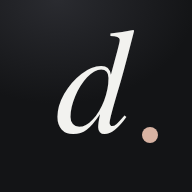
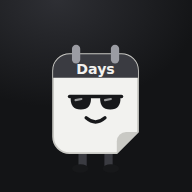
Days: letras como las otras apps y personaje animado
Claude-Session: https://claude.ai/code/session_01778MfouyxbgDrk4pFyrYCz

Changed region(s): [[0.25, 0.1562, 0.8438, 0.875]]

diff --git a/index.html b/index.html
@@ -12,7 +12,7 @@
 <link rel="icon" href="icons/icon-192.png">
 <link rel="apple-touch-icon" href="icons/apple-touch-icon.png">
 <link rel="preconnect" href="https://fonts.googleapis.com"><link rel="preconnect" href="https://fonts.gstatic.com" crossorigin>
-<link rel="stylesheet" href="https://fonts.googleapis.com/css2?family=Instrument+Serif:ital@0;1&family=Manrope:wght@400;500;600;700&display=swap">
+<link rel="stylesheet" href="https://fonts.googleapis.com/css2?family=Outfit:wght@400;500;600;700;800&display=swap">
 <title>Days</title>
 <style>
 :root,[data-theme="dark"]{--bg:#131416;--s1:#1b1c1f;--s2:#232428;--s3:#2d2e33;--line:#2f3036;--text:#ededee;--muted:#9b9ca3;--faint:#66676e;--chalk:#f2f2ef;--onchalk:#131416;
@@ -20,10 +20,10 @@
 [data-theme="light"]{--bg:#efeff1;--s1:#ffffff;--s2:#f6f6f7;--s3:#e9e9ec;--line:#dddde2;--text:#17181a;--muted:#686970;--faint:#a0a1a8;--chalk:#17181a;--onchalk:#ffffff;
   --birthday:#a8705b;--appointment:#4d6f8c;--event:#7f7652;--reminder:#6e6e78;--danger:#b54848;--ok:#4f7a4b;color-scheme:light}
 *{box-sizing:border-box;-webkit-tap-highlight-color:transparent}
-html,body{margin:0;background:var(--bg);color:var(--text);font-family:Manrope,system-ui,-apple-system,sans-serif;font-size:15px;line-height:1.45}
+html,body{margin:0;background:var(--bg);color:var(--text);font-family:Outfit,system-ui,-apple-system,sans-serif;font-size:15px;line-height:1.45}
 body{min-height:100vh;transition:background .3s}
 button,input,select,textarea{font:inherit;color:inherit}
-.serif{font-family:"Instrument Serif",Georgia,serif;font-weight:400;letter-spacing:-.01em}
+.serif{font-family:Outfit,system-ui,sans-serif;font-weight:800;letter-spacing:-.03em}
 .ic{display:block;flex:none}
 .muted{color:var(--muted)}.small{font-size:12.5px}
 :focus-visible{outline:2px solid var(--chalk);outline-offset:2px;border-radius:8px}
@@ -32,8 +32,8 @@ button,input,select,textarea{font:inherit;color:inherit}
 .side{display:none}
 main{flex:1;min-width:0;max-width:560px;margin:0 auto;padding:calc(env(safe-area-inset-top) + 14px) 18px calc(110px + env(safe-area-inset-bottom))}
 .top{display:flex;align-items:flex-end;justify-content:space-between;gap:12px;margin:6px 2px 18px}
-.top h1{margin:0;font-size:46px;line-height:.95}
-.top h1 small{display:block;font-family:Manrope,sans-serif;font-size:13px;color:var(--muted);letter-spacing:0;margin-top:6px}
+.top h1{margin:0;font-size:34px;line-height:1}
+.top h1 small{display:block;font-family:Outfit,sans-serif;font-weight:500;font-size:13px;color:var(--muted);letter-spacing:0;margin-top:6px}
 .iconbtn{width:42px;height:42px;border-radius:50%;border:1px solid var(--line);background:transparent;display:grid;place-items:center;cursor:pointer;color:var(--muted);flex:none}
 .iconbtn:active{transform:scale(.92)}
 .row-btns{display:flex;gap:8px}
@@ -45,7 +45,7 @@ main{flex:1;min-width:0;max-width:560px;margin:0 auto;padding:calc(env(safe-area
 @media(min-width:900px){
   .nav{display:none}
   .side{display:flex;flex-direction:column;gap:4px;width:240px;flex:none;padding:30px 18px;border-right:1px solid var(--line);position:sticky;top:0;height:100vh}
-  .side .brand{font-size:40px;margin:0 10px 26px}
+  .side .brand{font-size:28px;margin:0 8px 26px;display:flex;align-items:center;gap:10px}
   .side button.nv{border:0;background:none;display:flex;align-items:center;gap:12px;padding:11px 12px;border-radius:12px;font-weight:600;color:var(--muted);cursor:pointer;text-align:left}
   .side button.nv.on{background:var(--s2);color:var(--text)}
   .side .btn{margin-top:16px}
@@ -61,7 +61,7 @@ main{flex:1;min-width:0;max-width:560px;margin:0 auto;padding:calc(env(safe-area
 .grid{display:grid;grid-template-columns:repeat(7,1fr);gap:2px}
 .grid .wd{text-align:center;font-size:11.5px;color:var(--faint);font-weight:600;padding:4px 0 8px}
 .day{position:relative;aspect-ratio:1/1.08;border:0;background:transparent;border-radius:14px;cursor:pointer;display:flex;flex-direction:column;align-items:center;justify-content:flex-start;padding-top:7px;color:var(--text)}
-.day .n{font-family:"Instrument Serif",Georgia,serif;font-size:23px;line-height:1;width:34px;height:34px;display:grid;place-items:center;border-radius:50%}
+.day .n{font-family:Outfit,system-ui,sans-serif;font-weight:600;font-size:17px;line-height:1;width:34px;height:34px;display:grid;place-items:center;border-radius:50%}
 .day.out{opacity:.28}
 .day.past .n{color:var(--muted)}
 .day.today .n{background:var(--chalk);color:var(--onchalk)}
@@ -70,12 +70,12 @@ main{flex:1;min-width:0;max-width:560px;margin:0 auto;padding:calc(env(safe-area
 .day .dots i{width:5px;height:5px;border-radius:50%}
 /* agenda */
 .sec{display:flex;align-items:baseline;justify-content:space-between;margin:26px 2px 10px}
-.sec h2{margin:0;font-size:28px}
+.sec h2{margin:0;font-size:21px}
 .sec button{border:0;background:none;color:var(--muted);font-weight:600;cursor:pointer;font-size:13px}
 .dgroup{display:grid;grid-template-columns:58px 1fr;gap:12px;padding:14px 0;border-top:1px solid var(--line)}
 .dgroup:first-of-type{border-top:0}
 .dlabel{text-align:left}
-.dlabel b{display:block;font-family:"Instrument Serif",Georgia,serif;font-weight:400;font-size:38px;line-height:.9}
+.dlabel b{display:block;font-family:Outfit,system-ui,sans-serif;font-weight:700;font-size:30px;line-height:.95}
 .dlabel span{font-size:11.5px;color:var(--muted);text-transform:lowercase}
 .evs{display:flex;flex-direction:column;gap:8px;min-width:0}
 .ev{display:flex;gap:12px;align-items:stretch;background:var(--s1);border-radius:16px;padding:12px 14px;cursor:pointer;border:1px solid transparent;transition:border-color .2s}
@@ -87,14 +87,14 @@ main{flex:1;min-width:0;max-width:560px;margin:0 auto;padding:calc(env(safe-area
 .ev .r{font-size:12px;color:var(--muted);text-align:right;white-space:nowrap;align-self:center}
 .ev.done .t{text-decoration:line-through;color:var(--muted)}
 .empty{color:var(--muted);padding:22px 4px;line-height:1.55}
-.empty b{color:var(--text);display:block;font-family:"Instrument Serif",Georgia,serif;font-weight:400;font-size:26px;margin-bottom:4px}
+.empty b{color:var(--text);display:block;font-family:Outfit,system-ui,sans-serif;font-weight:700;font-size:20px;margin-bottom:4px}
 .typekey{display:flex;gap:14px;flex-wrap:wrap;font-size:12px;color:var(--muted);margin:10px 2px 0}
 .typekey i{display:inline-block;width:7px;height:7px;border-radius:50%;margin-right:6px;vertical-align:1px}
 /* birthdays list */
 .bd{display:flex;align-items:center;gap:14px;padding:14px 4px;border-top:1px solid var(--line);cursor:pointer}
 .bd:first-child{border-top:0}
 .bd .num{width:58px;flex:none}
-.bd .num b{display:block;font-family:"Instrument Serif",Georgia,serif;font-weight:400;font-size:34px;line-height:.9}
+.bd .num b{display:block;font-family:Outfit,system-ui,sans-serif;font-weight:700;font-size:28px;line-height:.95}
 .bd .num span{font-size:11.5px;color:var(--muted)}
 .bd .mid{flex:1;min-width:0}.bd .t{font-weight:600}.bd .s{font-size:12.5px;color:var(--muted)}
 .bd .left{font-size:12.5px;color:var(--muted);text-align:right}
@@ -106,7 +106,7 @@ main{flex:1;min-width:0;max-width:560px;margin:0 auto;padding:calc(env(safe-area
 @keyframes up{from{transform:translateY(30px);opacity:0}}
 .grab{width:38px;height:4px;border-radius:4px;background:var(--line);margin:4px auto 14px}
 .shead{display:flex;align-items:flex-start;justify-content:space-between;gap:10px;margin-bottom:16px}
-.shead h3{margin:0;font-size:32px;line-height:1}
+.shead h3{margin:0;font-size:24px;line-height:1.1}
 .shead p{margin:6px 0 0;color:var(--muted);font-size:13px}
 .x{width:36px;height:36px;border-radius:50%;border:0;background:var(--s2);color:var(--muted);display:grid;place-items:center;cursor:pointer;flex:none}
 .field{margin-bottom:14px}
@@ -148,7 +148,7 @@ main{flex:1;min-width:0;max-width:560px;margin:0 auto;padding:calc(env(safe-area
 .cap-state{text-align:center;color:var(--muted);font-size:13px;min-height:20px}
 .wave{display:flex;gap:4px;justify-content:center;align-items:center;height:26px;margin:6px 0}
 .wave i{width:3px;border-radius:3px;background:var(--text);height:6px;transition:height .12s}
-.cap-text{font-family:"Instrument Serif",Georgia,serif;font-size:30px;line-height:1.15;text-align:center;min-height:70px;margin:10px 4px 6px;word-break:break-word}
+.cap-text{font-family:Outfit,system-ui,sans-serif;font-weight:600;font-size:24px;line-height:1.15;text-align:center;min-height:70px;margin:10px 4px 6px;word-break:break-word}
 .cap-text .hint{color:var(--faint)}
 .cap-text textarea{width:100%;border:0;background:transparent;font:inherit;text-align:center;resize:none;outline:none;color:var(--text)}
 .interp{display:flex;flex-wrap:wrap;gap:8px;justify-content:center;margin:6px 0 18px;min-height:34px}
@@ -159,17 +159,51 @@ main{flex:1;min-width:0;max-width:560px;margin:0 auto;padding:calc(env(safe-area
 .auth{position:fixed;inset:0;z-index:90;display:none;overflow:auto;background:var(--bg)}
 .auth.open{display:block}
 .auth-box{max-width:400px;margin:auto;min-height:100vh;padding:40px 22px;display:flex;flex-direction:column;justify-content:center}
-.auth h1{font-size:76px;margin:0;line-height:.9}
+.auth h1{font-size:52px;margin:6px 0 0;line-height:1;text-align:center}
+.auth .sub{text-align:center}
+.auth-logo{display:flex;justify-content:center}
 .auth .sub{color:var(--muted);margin:10px 0 28px;line-height:1.5}
 .err{display:none;background:color-mix(in srgb,var(--danger) 14%,transparent);color:var(--danger);border-radius:12px;padding:10px 12px;font-size:13.5px;margin-bottom:12px}
 .switch{text-align:center;margin-top:16px;color:var(--muted);font-size:14px}
 .splash{position:fixed;inset:0;z-index:100;background:var(--bg);display:grid;place-items:center;transition:opacity .4s}
 .splash.hide{opacity:0;pointer-events:none}
-.splash .big{font-size:120px;line-height:1;text-align:center}
-.splash .big small{display:block;font-family:Manrope,sans-serif;font-size:14px;color:var(--muted);letter-spacing:.02em}
-.toast{position:fixed;left:50%;bottom:calc(98px + env(safe-area-inset-bottom));transform:translate(-50%,16px);background:var(--chalk);color:var(--onchalk);border-radius:99px;padding:11px 18px;font-weight:600;font-size:14px;opacity:0;pointer-events:none;transition:opacity .25s,transform .25s;z-index:95;max-width:calc(100% - 32px);text-align:center}
+.splash .big{text-align:center}
+.splash .big small{display:block;font-family:Outfit,sans-serif;font-weight:500;font-size:14px;color:var(--muted);letter-spacing:.02em}
+.toast{position:fixed;left:50%;bottom:calc(98px + env(safe-area-inset-bottom));transform:translate(-50%,16px);background:var(--chalk);color:var(--onchalk);border-radius:99px;padding:6px 18px 6px 8px;font-weight:600;font-size:14px;opacity:0;pointer-events:none;transition:opacity .25s,transform .25s;z-index:95;max-width:calc(100% - 32px);text-align:center}
 .toast.show{opacity:1;transform:translate(-50%,0)}
 .fade{animation:fade .35s ease both}@keyframes fade{from{opacity:0}}
+
+/* ===== personaje: hojita de calendario con lentes ===== */
+.mascot{overflow:visible;display:block;cursor:pointer}
+.mascot .mb{transform-box:fill-box;transform-origin:50% 100%;animation:mfloat 3.2s ease-in-out infinite}
+.mascot .ms{transform-box:fill-box;transform-origin:50% 50%;animation:mshadow 3.2s ease-in-out infinite}
+.mascot .ear{transform-box:fill-box;transform-origin:100% 100%;animation:mear 5s ease-in-out infinite}
+.mascot .glass{transform-box:fill-box;transform-origin:50% 50%;animation:mglass 6s ease-in-out infinite}
+.mascot .arm{transform-box:fill-box;transform-origin:15% 15%}
+.mascot.m-wave .arm.r{animation:mwave .9s ease-in-out infinite}
+.mascot.m-happy .mb{animation:mhop .8s cubic-bezier(.3,1.6,.5,1) infinite}
+.mascot.m-celebrate .mb{animation:mspin 1.2s cubic-bezier(.3,1.3,.5,1) infinite}
+.mascot.m-celebrate .arm{animation:mwave .5s ease-in-out infinite}
+.mascot.m-listen .mb{animation:mlisten .7s ease-in-out infinite}
+.mascot.m-think .mb{animation:mtilt 2.4s ease-in-out infinite}
+.mascot.m-sleep .mb{animation:mbreath 4s ease-in-out infinite}
+.mascot .z{animation:zz 2.4s ease-in-out infinite;opacity:0}.mascot .z2{animation-delay:.8s}.mascot .z3{animation-delay:1.6s}
+.mascot:active .mb{animation:msquish .35s ease}
+@keyframes mfloat{0%,100%{transform:translateY(0) rotate(-2deg)}50%{transform:translateY(-6px) rotate(2deg)}}
+@keyframes mshadow{0%,100%{transform:scaleX(1);opacity:.3}50%{transform:scaleX(.8);opacity:.18}}
+@keyframes mear{0%,80%,100%{transform:rotate(0)}88%{transform:rotate(-18deg)}}
+@keyframes mglass{0%,90%,100%{transform:translateY(0)}94%{transform:translateY(-3px)}}
+@keyframes mwave{0%,100%{transform:rotate(0)}50%{transform:rotate(-35deg)}}
+@keyframes mhop{0%,100%{transform:translateY(0)}40%{transform:translateY(-12px) scale(1.03,.97)}}
+@keyframes mspin{0%,100%{transform:translateY(0) rotate(0)}30%{transform:translateY(-14px) rotate(-8deg)}60%{transform:translateY(-14px) rotate(8deg)}}
+@keyframes mlisten{0%,100%{transform:scale(1)}50%{transform:scale(1.05,.96)}}
+@keyframes mtilt{0%,100%{transform:rotate(-6deg)}50%{transform:rotate(6deg)}}
+@keyframes mbreath{0%,100%{transform:scale(1)}50%{transform:scale(1.03,.97)}}
+@keyframes msquish{50%{transform:scale(1.12,.86)}}
+@keyframes zz{0%{opacity:0;transform:translate(0,0) scale(.6)}30%{opacity:1}100%{opacity:0;transform:translate(14px,-26px) scale(1.1)}}
+.hello{display:flex;align-items:center;gap:12px;margin:4px 0 14px}
+.hello h1{margin:0;font-size:21px;line-height:1.15}.hello p{margin:2px 0 0;color:var(--muted);font-size:13px}
+.hello .iconbtn{margin-left:auto}
 @media (prefers-reduced-motion:reduce){*{animation:none!important;transition:none!important}}
 </style>
 </head>
@@ -177,6 +211,7 @@ main{flex:1;min-width:0;max-width:560px;margin:0 auto;padding:calc(env(safe-area
 <div class="splash" id="splash"><div class="big serif" id="splashNum"></div></div>
 
 <div class="auth" id="auth"><div class="auth-box">
+  <div class="auth-logo" id="authLogo"></div>
   <h1 class="serif">Days</h1>
   <p class="sub" id="authSub">Cumpleaños, citas y todo lo que no quieres olvidar. Te aviso antes.</p>
   <div id="loginCard">
@@ -257,6 +292,41 @@ const IC={
 };
 const ic=(n,s=20,w=1.7)=>`<svg class="ic" width="${s}" height="${s}" viewBox="0 0 24 24" fill="none" stroke="currentColor" stroke-width="${w}" stroke-linecap="round" stroke-linejoin="round" aria-hidden="true">${IC[n]||''}</svg>`;
 
+
+/* ---------------- personaje ---------------- */
+let _mid=0;
+function isSleep(){const h=new Date().getHours();return h>=23||h<5}
+function mascotSVG(size=90,mood='idle'){
+  if(isSleep()&&!['celebrate','listen'].includes(mood))mood='sleep';
+  const light=document.documentElement.dataset.theme==='light';
+  const page=light?'#ffffff':'#f2f2ef',edge=light?'#d9d9de':'#c9c9c4',head='#3a3b41',ink='#17181a';
+  const n=new Date(),day=n.getDate(),mon=n.toLocaleDateString('es-MX',{month:'short'}).replace('.','');
+  const sleep=mood==='sleep',id='m'+(++_mid);
+  const eyes=sleep?`<path d="M44 70q5 4 10 0M66 70q5 4 10 0" stroke="${ink}" stroke-width="2.8" fill="none" stroke-linecap="round"/>`
+    :`<g class="glass"><path d="M38 66h44" stroke="${ink}" stroke-width="3" stroke-linecap="round"/><path d="M39 66h17q1 11-8.5 11T39 66z" fill="${ink}"/><path d="M64 66h17q1 11-8.5 11T64 66z" fill="${ink}"/><path d="M43 69l5-1M68 69l5-1" stroke="#fff" stroke-width="1.8" stroke-linecap="round" opacity=".55"/></g>`;
+  const mouth=['happy','celebrate','wave'].includes(mood)?`<path d="M52 84q8 9 16 0z" fill="${ink}"/><path d="M55.5 87q4.5 3 9 0" fill="#e59a9a"/>`
+    :mood==='listen'?`<ellipse cx="60" cy="87" rx="4" ry="4.6" fill="${ink}"/>`
+    :mood==='think'?`<path d="M54 88q6-3 12 1" stroke="${ink}" stroke-width="2.6" fill="none" stroke-linecap="round"/>`
+    :sleep?`<ellipse cx="60" cy="87" rx="3" ry="2.2" fill="${ink}"/>`
+    :`<path d="M52 84q8 7 16 0" stroke="${ink}" stroke-width="2.8" fill="none" stroke-linecap="round"/>`;
+  const zz=sleep?`<text class="z" x="96" y="22" font-size="12" font-weight="800" fill="var(--muted)">z</text><text class="z z2" x="103" y="12" font-size="15" font-weight="800" fill="var(--muted)">z</text><text class="z z3" x="110" y="2" font-size="18" font-weight="800" fill="var(--muted)">Z</text>`:'';
+  return `<svg class="mascot m-${mood}" width="${size}" height="${size}" viewBox="0 0 120 140" onclick="mascotPoke(this)" role="img" aria-label="Tu calendario">
+  <ellipse class="ms" cx="60" cy="134" rx="30" ry="4.5" fill="#000"/>
+  <g class="mb">
+    <path d="M49 112v14M71 112v14" stroke="${head}" stroke-width="7" stroke-linecap="round"/><ellipse cx="47" cy="127" rx="7" ry="3.6" fill="${ink}"/><ellipse cx="73" cy="127" rx="7" ry="3.6" fill="${ink}"/>
+    <g class="arm l"><path d="M24 74q-12 6-12 20" stroke="${head}" stroke-width="6" fill="none" stroke-linecap="round"/><circle cx="12" cy="95" r="5" fill="${page}" stroke="${edge}" stroke-width="1.5"/></g>
+    <g class="arm r"><path d="M96 74q12 -4 14-18" stroke="${head}" stroke-width="6" fill="none" stroke-linecap="round"/><circle cx="110" cy="55" r="5" fill="${page}" stroke="${edge}" stroke-width="1.5"/></g>
+    <path d="M24 44a14 14 0 0 1 14-14h44a14 14 0 0 1 14 14v52l-18 18H38a14 14 0 0 1-14-14z" fill="${page}" stroke="${edge}" stroke-width="1.5"/>
+    <path class="ear" d="M96 96l-18 18v-10a8 8 0 0 1 8-8z" fill="${edge}"/>
+    <path d="M24 44a14 14 0 0 1 14-14h44a14 14 0 0 1 14 14v6H24z" fill="${head}"/>
+    <rect x="40" y="22" width="7" height="16" rx="3.5" fill="#9b9ca3"/><rect x="73" y="22" width="7" height="16" rx="3.5" fill="#9b9ca3"/>
+    <text x="60" y="47" text-anchor="middle" font-family="Outfit,system-ui,sans-serif" font-size="12" font-weight="700" fill="#f2f2ef">${day} ${mon}</text>
+    ${eyes}${mouth}
+  </g>${zz}</svg>`;
+}
+function mascotPoke(el){sfx('coin');try{navigator.vibrate&&navigator.vibrate(12)}catch(e){}el.classList.add('m-happy');setTimeout(()=>el.classList.remove('m-happy'),1200)}
+function greetWord(){const h=new Date().getHours();return h>=5&&h<12?'Buenos días':h<19?'Buenas tardes':'Buenas noches'}
+
 /* ---------------- tema ---------------- */
 function themePref(){return ls('days_theme')||'dark'}
 function applyTheme(){const p=themePref();const t=p==='auto'?(matchMedia('(prefers-color-scheme: light)').matches?'light':'dark'):p;document.documentElement.dataset.theme=t;const m=document.querySelector('meta[name=theme-color]');if(m)m.content=t==='light'?'#efeff1':'#131416'}
@@ -296,7 +366,7 @@ async function loadData(){const {data,error}=await sb.from('dy_events').select('
 const VIEWS=[['cal','Calendario','cal'],['next','Próximos','list'],['bdays','Cumpleaños','cake'],['settings','Ajustes','gear']];
 function buildNav(){
   $('nav').innerHTML=VIEWS.slice(0,2).map(navBtn).join('')+`<button class="mic" data-nosfx onclick="openCapture()" aria-label="Agregar con la voz">${ic('mic',24,1.9)}</button>`+VIEWS.slice(2).map(navBtn).join('');
-  $('side').innerHTML=`<div class="brand serif">Days</div>`+VIEWS.map(v=>`<button class="nv ${view===v[0]?'on':''}" onclick="go('${v[0]}')">${ic(v[2],19)} ${v[1]}</button>`).join('')+`<button class="btn" onclick="openCapture()">${ic('mic',18)} Agregar</button>`;
+  $('side').innerHTML=`<div class="brand serif">${mascotSVG(40,'idle')} Days</div>`+VIEWS.map(v=>`<button class="nv ${view===v[0]?'on':''}" onclick="go('${v[0]}')">${ic(v[2],19)} ${v[1]}</button>`).join('')+`<button class="btn" onclick="openCapture()">${ic('mic',18)} Agregar</button>`;
 }
 const navBtn=v=>`<button class="${view===v[0]?'on':''}" onclick="go('${v[0]}')">${ic(v[2],21)}<span>${v[1]}</span></button>`;
 function go(v){if(v!==view)sfx('toggle');view=v;buildNav();render();scrollTo({top:0})}
@@ -314,9 +384,11 @@ function calView(){
     return `<button class="day ${k.slice(0,7)!==calMonth?'out':''} ${k<t?'past':''} ${k===t?'today':''} ${k===selDay?'sel':''}" onclick="pickDay('${k}')" aria-label="${fmtDate(k)}${list.length?', '+list.length+' cosas':''}"><span class="n">${+k.slice(8)}</span><span class="dots">${types.map(ty=>`<i style="background:${TYPES[ty].c}"></i>`).join('')}</span></button>`}).join('')}</div>`;
   const dayList=byDay[selDay]||expand(selDay,selDay);
   const right=`<div class="sec"><h2 class="serif">${selDay===t?'Hoy':cap(fmtDate(selDay,{weekday:'long',day:'numeric'}))}</h2><button onclick="openEditor(null,'${selDay}')">${'Agregar'}</button></div>
-    ${dayList.length?`<div class="evs">${dayList.map(o=>evRow(o,true)).join('')}</div>`:`<div class="empty">Nada para este día. Toca el micrófono y di algo como <i>“el jueves a las 4 pm ir al doctor”</i>.</div>`}
+    ${dayList.length?`<div class="evs">${dayList.map(o=>evRow(o,true)).join('')}</div>`:`<div class="empty" style="display:flex;gap:12px;align-items:center">${mascotSVG(56,'think')}<div>Nada para este día. Toca el micrófono y di algo como <i>“el jueves a las 4 pm ir al doctor”</i>.</div></div>`}
     <div class="sec"><h2 class="serif">Lo que viene</h2><button onclick="go('next')">Ver todo</button></div>${agendaGroups(expand(addDays(t,1),addDays(t,30)).slice(0,6))||'<div class="empty">Nada en los próximos 30 días.</div>'}`;
-  return `<div class="top"><h1 class="serif">${title}<small>${y}</small></h1><div class="row-btns">${calMonth!==t.slice(0,7)?`<button class="iconbtn" onclick="calMonth=null;selDay=null;render()" aria-label="Ir a hoy">${ic('today',19)}</button>`:''}<button class="iconbtn" onclick="shiftMonth(-1)" aria-label="Mes anterior">${ic('left',19)}</button><button class="iconbtn" onclick="shiftMonth(1)" aria-label="Mes siguiente">${ic('right',19)}</button></div></div>
+  const todayCount=expand(t,t).length;
+  return `<div class="hello">${mascotSVG(58,'wave')}<div><h1>${greetWord()}${userName()?', '+esc(userName()):''}</h1><p>${todayCount?`Hoy tienes ${todayCount} ${todayCount===1?'cosa':'cosas'}`:cap(fmtDate(t))}</p></div><button class="iconbtn only-m" onclick="go('settings')" aria-label="Ajustes">${ic('gear',19)}</button></div>
+  <div class="top"><h1 class="serif">${title}<small>${y}</small></h1><div class="row-btns">${calMonth!==t.slice(0,7)?`<button class="iconbtn" onclick="calMonth=null;selDay=null;render()" aria-label="Ir a hoy">${ic('today',19)}</button>`:''}<button class="iconbtn" onclick="shiftMonth(-1)" aria-label="Mes anterior">${ic('left',19)}</button><button class="iconbtn" onclick="shiftMonth(1)" aria-label="Mes siguiente">${ic('right',19)}</button></div></div>
   <div class="cols"><div class="month">${grid}<div class="typekey">${Object.entries(TYPES).map(([k,v])=>`<span><i style="background:${v.c}"></i>${v.n}</span>`).join('')}</div></div><div>${right}</div></div>`;
 }
 function shiftMonth(n){const [y,m]=calMonth.split('-').map(Number);const d=new Date(y,m-1+n,1);calMonth=d.getFullYear()+'-'+pad(d.getMonth()+1);sfx('toggle');render()}
@@ -336,7 +408,7 @@ function nextView(){
   const t=today();const list=expand(t,addDays(t,90));
   const byMonth={};list.forEach(o=>(byMonth[o.date.slice(0,7)]=byMonth[o.date.slice(0,7)]||[]).push(o));
   return `<div class="top"><h1 class="serif">Próximos<small>Los siguientes 3 meses</small></h1><button class="iconbtn only-m" onclick="openEditor()" aria-label="Agregar">${ic('plus',19)}</button></div>
-  ${list.length?Object.entries(byMonth).map(([mk,os])=>`<div class="sec"><h2 class="serif">${cap(parseD(mk+'-01').toLocaleDateString('es-MX',{month:'long'}))}</h2><span class="muted small">${os.length} ${os.length===1?'cosa':'cosas'}</span></div>${agendaGroups(os)}`).join(''):`<div class="empty"><b>Todo despejado</b>Agrega un cumpleaños o una cita con el micrófono.</div>`}`;
+  ${list.length?Object.entries(byMonth).map(([mk,os])=>`<div class="sec"><h2 class="serif">${cap(parseD(mk+'-01').toLocaleDateString('es-MX',{month:'long'}))}</h2><span class="muted small">${os.length} ${os.length===1?'cosa':'cosas'}</span></div>${agendaGroups(os)}`).join(''):`<div class="empty" style="text-align:center"><div style="display:flex;justify-content:center">${mascotSVG(110,'happy')}</div><b>Todo despejado</b>Agrega un cumpleaños o una cita con el micrófono.</div>`}`;
 }
 
 /* ---------------- cumpleaños ---------------- */
@@ -344,13 +416,13 @@ function bdaysView(){
   const t=today();const bs=events.filter(e=>e.kind==='birthday').map(ev=>{const next=occurrences(ev,t,addDays(t,366))[0];return {ev,next,n:next?diffDays(t,next):999}}).sort((a,b)=>a.n-b.n);
   return `<div class="top"><h1 class="serif">Cumpleaños<small>${bs.length} ${bs.length===1?'persona':'personas'}</small></h1><button class="iconbtn" onclick="openEditor(null,null,'birthday')" aria-label="Agregar cumpleaños">${ic('plus',19)}</button></div>
   ${bs.length?`<div>${bs.map(({ev,next,n})=>{const age=next?ageOn(ev,next):null;return `<div class="bd" onclick="openEvent('${ev.id}','${next}')"><div class="num"><b>${+next.slice(8)}</b><span>${parseD(next).toLocaleDateString('es-MX',{month:'short'}).replace('.','')}</span></div><div class="mid"><div class="t">${esc(personOf(ev))}</div><div class="s">${age?'Cumple '+age:'Cumpleaños'}, ${fmtDate(next,{weekday:'long'})}</div></div><div class="left">${n===0?'<b>¡Hoy!</b>':n===1?'<b>Mañana</b>':`<b>${n}</b>días`}</div></div>`}).join('')}</div>`
-  :`<div class="empty"><b>Nadie todavía</b>Di <i>“cumpleaños de mi mamá el 12 de noviembre, cumple 60”</i> y te aviso una semana antes, un día antes y el mismo día.<div style="margin-top:16px"><button class="btn" onclick="openCapture()">${ic('mic',18)} Agregar con la voz</button></div></div>`}`;
+  :`<div class="empty" style="text-align:center"><div style="display:flex;justify-content:center">${mascotSVG(110,'wave')}</div><b>Nadie todavía</b>Di <i>“cumpleaños de mi mamá el 12 de noviembre, cumple 60”</i> y te aviso una semana antes, un día antes y el mismo día.<div style="margin-top:16px"><button class="btn" onclick="openCapture()">${ic('mic',18)} Agregar con la voz</button></div></div>`}`;
 }
 
 /* ---------------- ajustes ---------------- */
 function settingsView(){
   const st=pushState();const txt={on:'Activadas en este teléfono',off:'Toca para activarlas',install:'Primero instala Days en tu pantalla de inicio',denied:'Bloqueadas en los ajustes del teléfono',unsupported:'Este navegador no las permite'}[st];
-  return `<div class="top"><h1 class="serif">Ajustes</h1></div>
+  return `<div class="top"><h1 class="serif">Ajustes</h1></div><div style="display:flex;justify-content:center;margin-bottom:6px">${mascotSVG(96,'happy')}</div>
   <div class="list">
     <div class="li" onclick="openName()">${ic('user',20)}<div class="mid"><div class="t">${esc(user?.user_metadata?.name||'Tu nombre')}</div><div class="s">${esc(user?.email||'')}</div></div><span class="muted small">Cambiar</span></div>
     <div class="li" onclick="${st==='on'?'testPush()':'openNotif()'}">${ic('bell',20)}<div class="mid"><div class="t">Notificaciones</div><div class="s">${txt}</div></div><span class="muted small">${st==='on'?'Probar':''}</span></div>
@@ -370,7 +442,7 @@ function closeSheet(){if($('overlay').classList.contains('open'))sfx('close');st
 $('overlay').addEventListener('click',e=>{if(e.target.id==='overlay')closeSheet()});
 document.addEventListener('keydown',e=>{if(e.key==='Escape')closeSheet()});
 const head=(t,sub)=>`<div class="shead"><div><h3 class="serif">${t}</h3>${sub?`<p>${sub}</p>`:''}</div><button class="x" onclick="closeSheet()" aria-label="Cerrar">${ic('close',17)}</button></div>`;
-let toastT;function toast(msg){const t=$('toast');t.textContent=msg;t.classList.add('show');clearTimeout(toastT);toastT=setTimeout(()=>t.classList.remove('show'),2400)}
+let toastT;function toast(msg,mood='happy'){const t=$('toast');t.innerHTML=`<span style="display:inline-flex;align-items:center;gap:8px">${mascotSVG(30,mood)}<span>${esc(msg)}</span></span>`;t.classList.add('show');clearTimeout(toastT);toastT=setTimeout(()=>t.classList.remove('show'),2400)}
 
 /* ---------------- detalle ---------------- */
 function openEvent(id,occ){
@@ -423,19 +495,20 @@ async function saveDraft(){
   try{
     if(d.id){const {error}=await sb.from('dy_events').update({...row,sent:{}}).eq('id',d.id);if(error)throw error;Object.assign(events.find(e=>e.id===d.id),row)}
     else{const {data,error}=await sb.from('dy_events').insert({...row,user_id:user.id}).select().single();if(error)throw error;events.push(data)}
-    sfx('done');closeSheet();selDay=row.kind==='birthday'?(occurrences(row,today(),addDays(today(),366))[0]||row.date):row.date;calMonth=selDay.slice(0,7);render();
-    toast(row.alerts.length?'Guardado. Te aviso '+row.alerts.map(alertLabel).join(', ').toLowerCase():'Guardado');
+    sfx('done');closeSheet();showSaved(row);selDay=row.kind==='birthday'?(occurrences(row,today(),addDays(today(),366))[0]||row.date):row.date;calMonth=selDay.slice(0,7);render();
+    toast(row.alerts.length?'Listo. Te aviso '+row.alerts.map(alertLabel).join(', ').toLowerCase():'Guardado','celebrate');
     if(pushState()==='off'&&!ls('days_push_asked')){ls('days_push_asked','1');setTimeout(openNotif,900)}
   }catch(e){console.error(e);$('eSave').disabled=false;sfx('error');alert('No se pudo guardar: '+(e.message||e))}
 }
 
+function showSaved(row){}
 /* ---------------- captura por voz ---------------- */
 let rec=null,recOn=false,lvlT=null;
 const SR=()=>window.SpeechRecognition||window.webkitSpeechRecognition;
 function openCapture(){
   draft=null;const can=!!SR();
   openSheet(head('¿Qué quieres que te recuerde?','')+`
-  ${can?`<div class="cap-orb" id="orb"><span class="ring"></span><span class="ring"></span><span class="ring"></span><button id="micBtn" data-nosfx onclick="toggleRec()" aria-label="Hablar">${ic('mic',36,1.8)}</button></div>
+  ${can?`<div style="display:flex;justify-content:center;margin-bottom:-8px" id="capMascot">${mascotSVG(70,'listen')}</div><div class="cap-orb" id="orb"><span class="ring"></span><span class="ring"></span><span class="ring"></span><button id="micBtn" data-nosfx onclick="toggleRec()" aria-label="Hablar">${ic('mic',36,1.8)}</button></div>
   <div class="wave" id="wave">${'<i></i>'.repeat(9)}</div><div class="cap-state" id="capState">Toca y habla</div>`:''}
   <div class="cap-text"><textarea id="capText" rows="1" placeholder="${can?'O escríbelo aquí':'Escribe o dicta con el micrófono del teclado'}" oninput="liveParse()"></textarea></div>
   <div class="interp" id="interp"></div>
@@ -451,12 +524,12 @@ function startRec(){
   rec.onresult=e=>{let txt='';for(let i=0;i<e.results.length;i++)txt+=e.results[i][0].transcript;const ta=$('capText');if(ta){ta.value=(base?base+' ':'')+txt;liveParse()}bumpLevel()};
   rec.onerror=e=>{const s=$('capState');if(s)s.textContent=e.error==='not-allowed'?'Permite el micrófono, o escríbelo abajo':e.error==='no-speech'?'No te escuché. Toca y vuelve a intentar':'No se pudo escuchar. Escríbelo abajo';stopRec(true)};
   rec.onend=()=>stopRec(true);
-  try{rec.start();recOn=true;sfx('record');$('orb')?.classList.add('rec');const s=$('capState');if(s)s.textContent='Te escucho…';idleWave()}catch(e){recOn=false}
+  try{rec.start();recOn=true;sfx('record');const cm=$('capMascot');if(cm)cm.innerHTML=mascotSVG(70,'listen');$('orb')?.classList.add('rec');const s=$('capState');if(s)s.textContent='Te escucho…';idleWave()}catch(e){recOn=false}
 }
 function stopRec(silent){
   if(rec){try{rec.stop()}catch(e){}}rec=null;
   if(recOn&&!silent)sfx('stop');if(recOn&&silent&&$('orb'))sfx('stop');
-  recOn=false;clearInterval(lvlT);$('orb')?.classList.remove('rec');
+  recOn=false;clearInterval(lvlT);$('orb')?.classList.remove('rec');const cm=$('capMascot');if(cm&&($('capText')?.value||'').trim())cm.innerHTML=mascotSVG(70,'happy');
   document.querySelectorAll('#wave i').forEach(i=>i.style.height='6px');
   const s=$('capState');if(s&&s.textContent==='Te escucho…')s.textContent=($('capText')?.value||'').trim()?'Revisa abajo y guarda':'Toca y habla';
 }
@@ -528,7 +601,7 @@ async function start(u){
   if(!u.user_metadata?.name)setTimeout(()=>openName(true),800);
 }
 (async function boot(){
-  applyTheme();const n=new Date();$('splashNum').innerHTML=`${n.getDate()}<small>${n.toLocaleDateString('es-MX',{month:'long'})}</small>`;
+  applyTheme();$('splashNum').innerHTML=mascotSVG(140,'wave');$('authLogo').innerHTML=mascotSVG(130,'wave');
   if('serviceWorker' in navigator)navigator.serviceWorker.register('./sw.js').catch(()=>{});
   setTimeout(hideSplash,6000);
   const {data:{session}}=await sb.auth.getSession();
